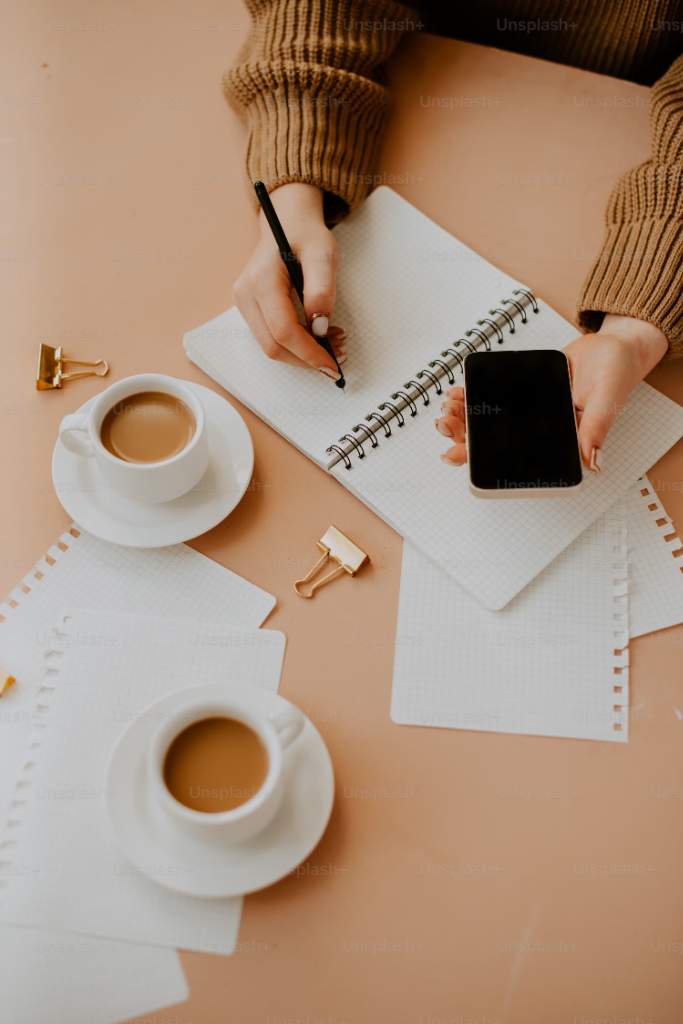
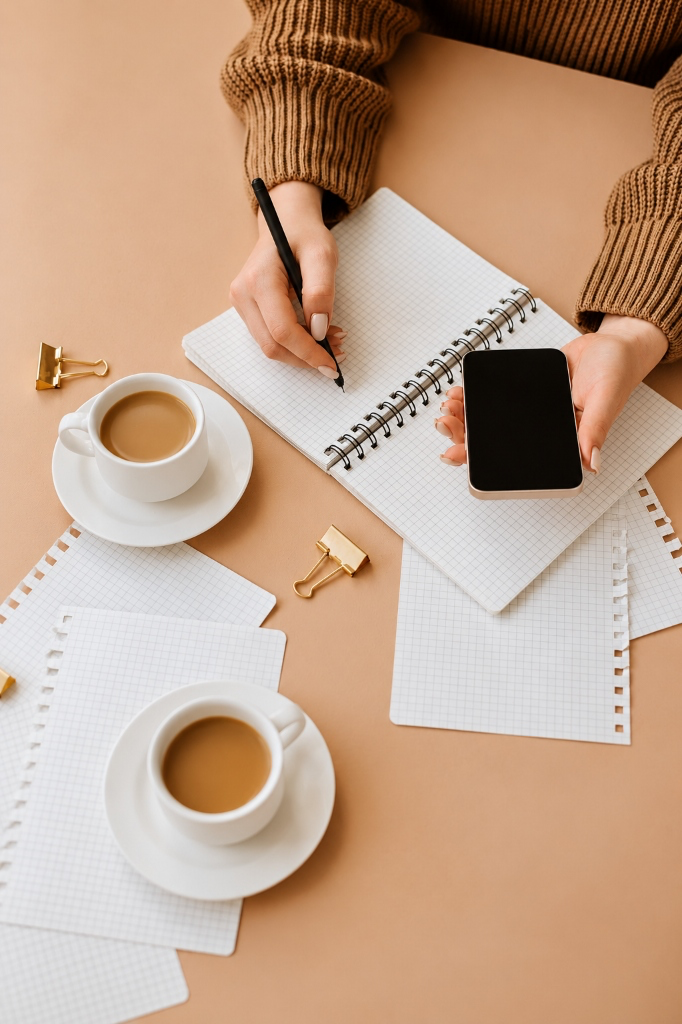
feat(web): update welcome screen background with clean high-res photo and changelog

diff --git a/CHANGELOG.md b/CHANGELOG.md
@@ -1,5 +1,7 @@
 # Free extension and local library
 
+- **[Welcome / UI]** Update welcome page full-bleed background to the clean, high-resolution desk, coffee, and spiral notebook image across iOS and Web.
+
 - **[Auth / UI]** Update authentication full-page background across iOS and Web to the new desk workspace image featuring plant, book, notebook, and laptop.
 
 - **[iOS / Dev]** Add an in-app interactive Auth State Simulator and separate Xcode previews for every authentication step (email entry, sign-up password, sign-in password, code verification, and data sync).
